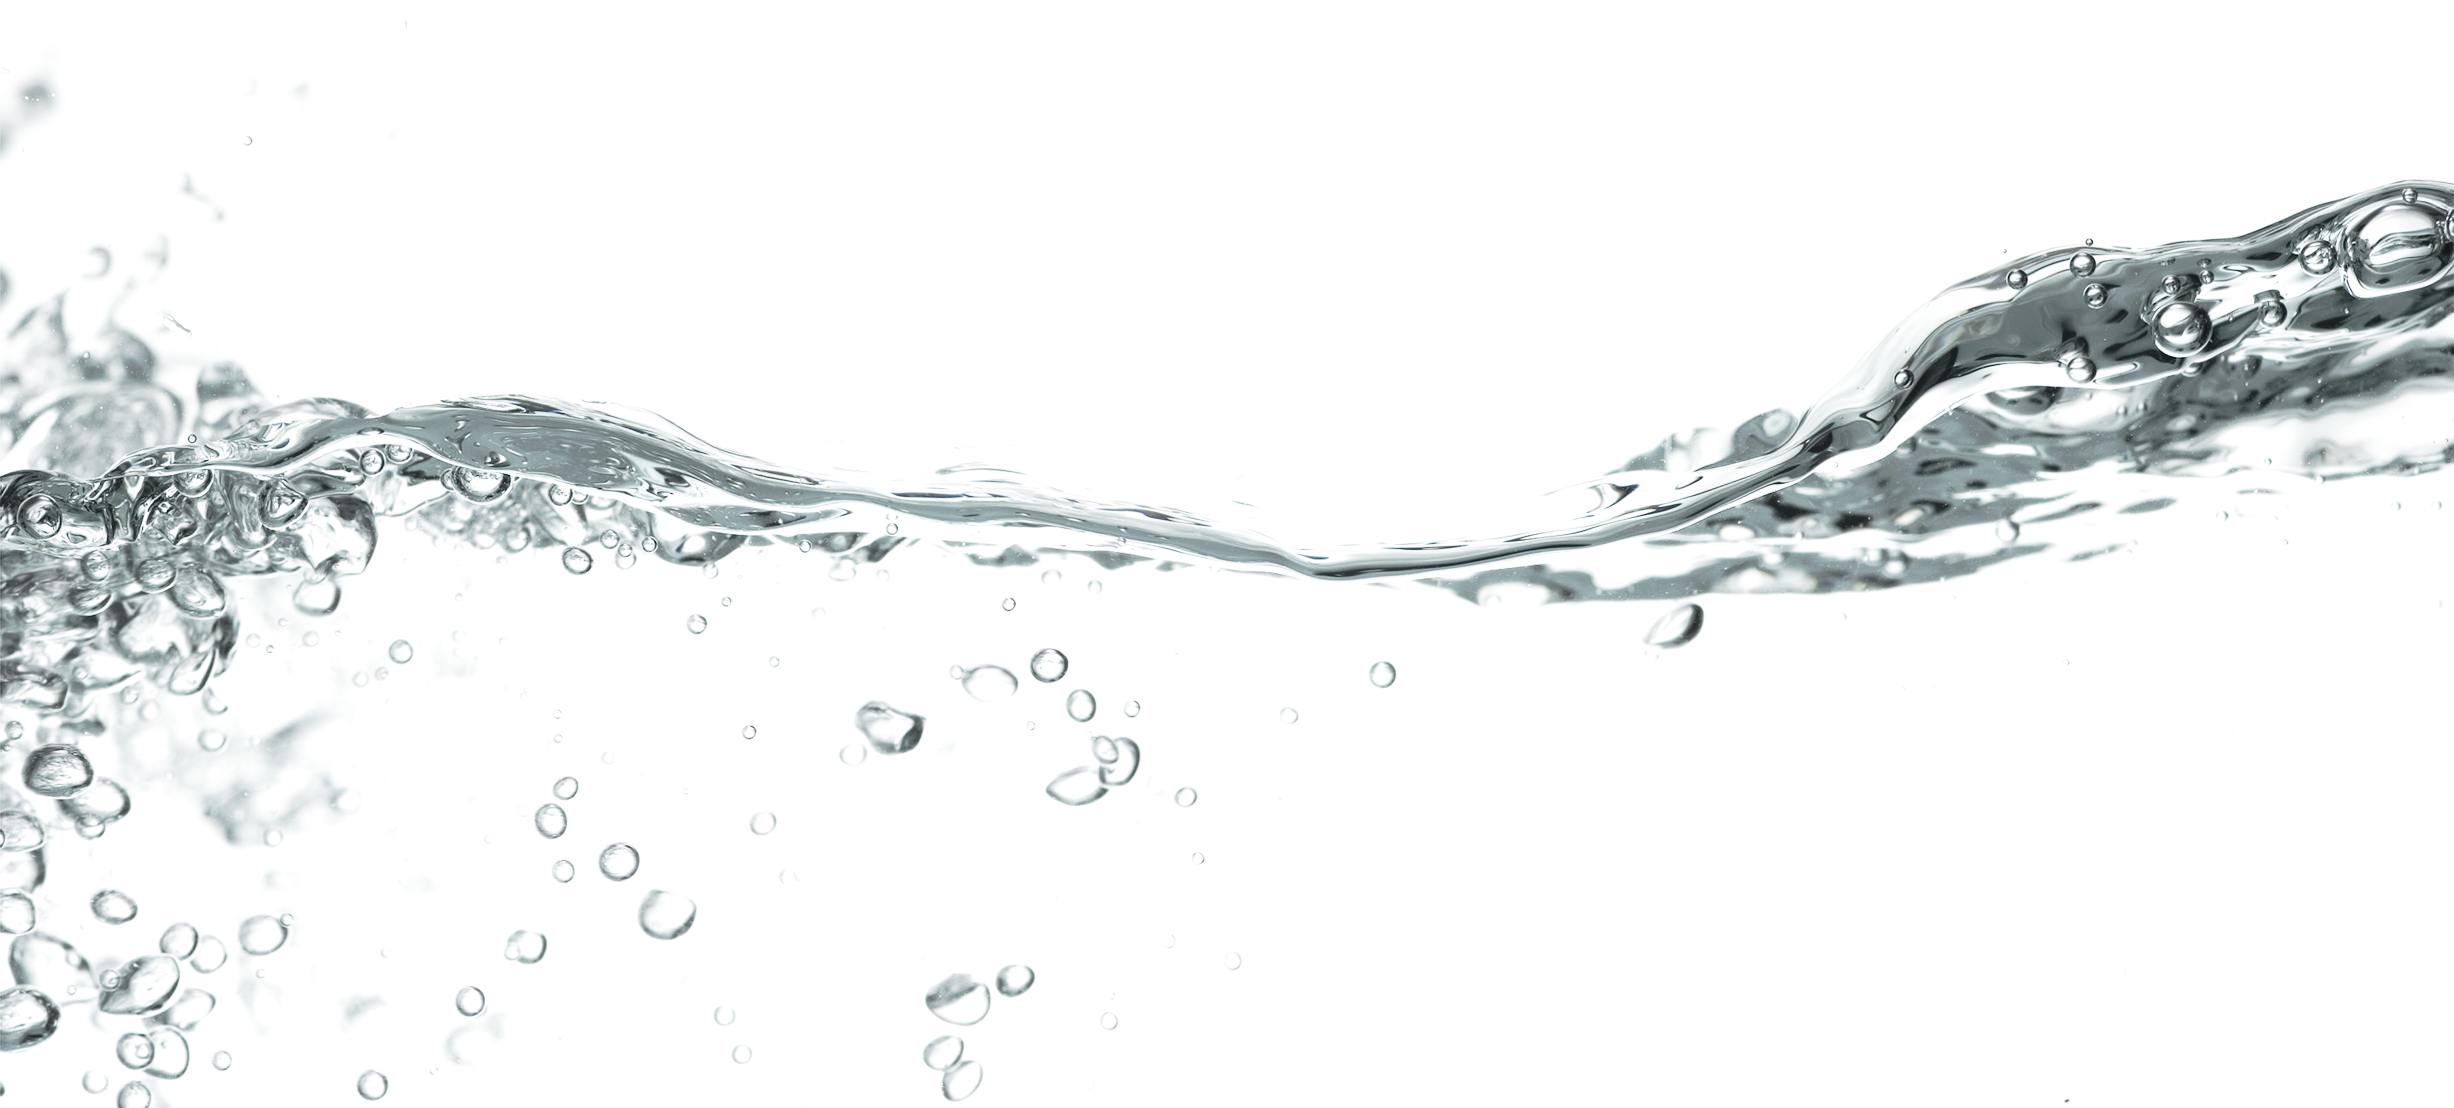
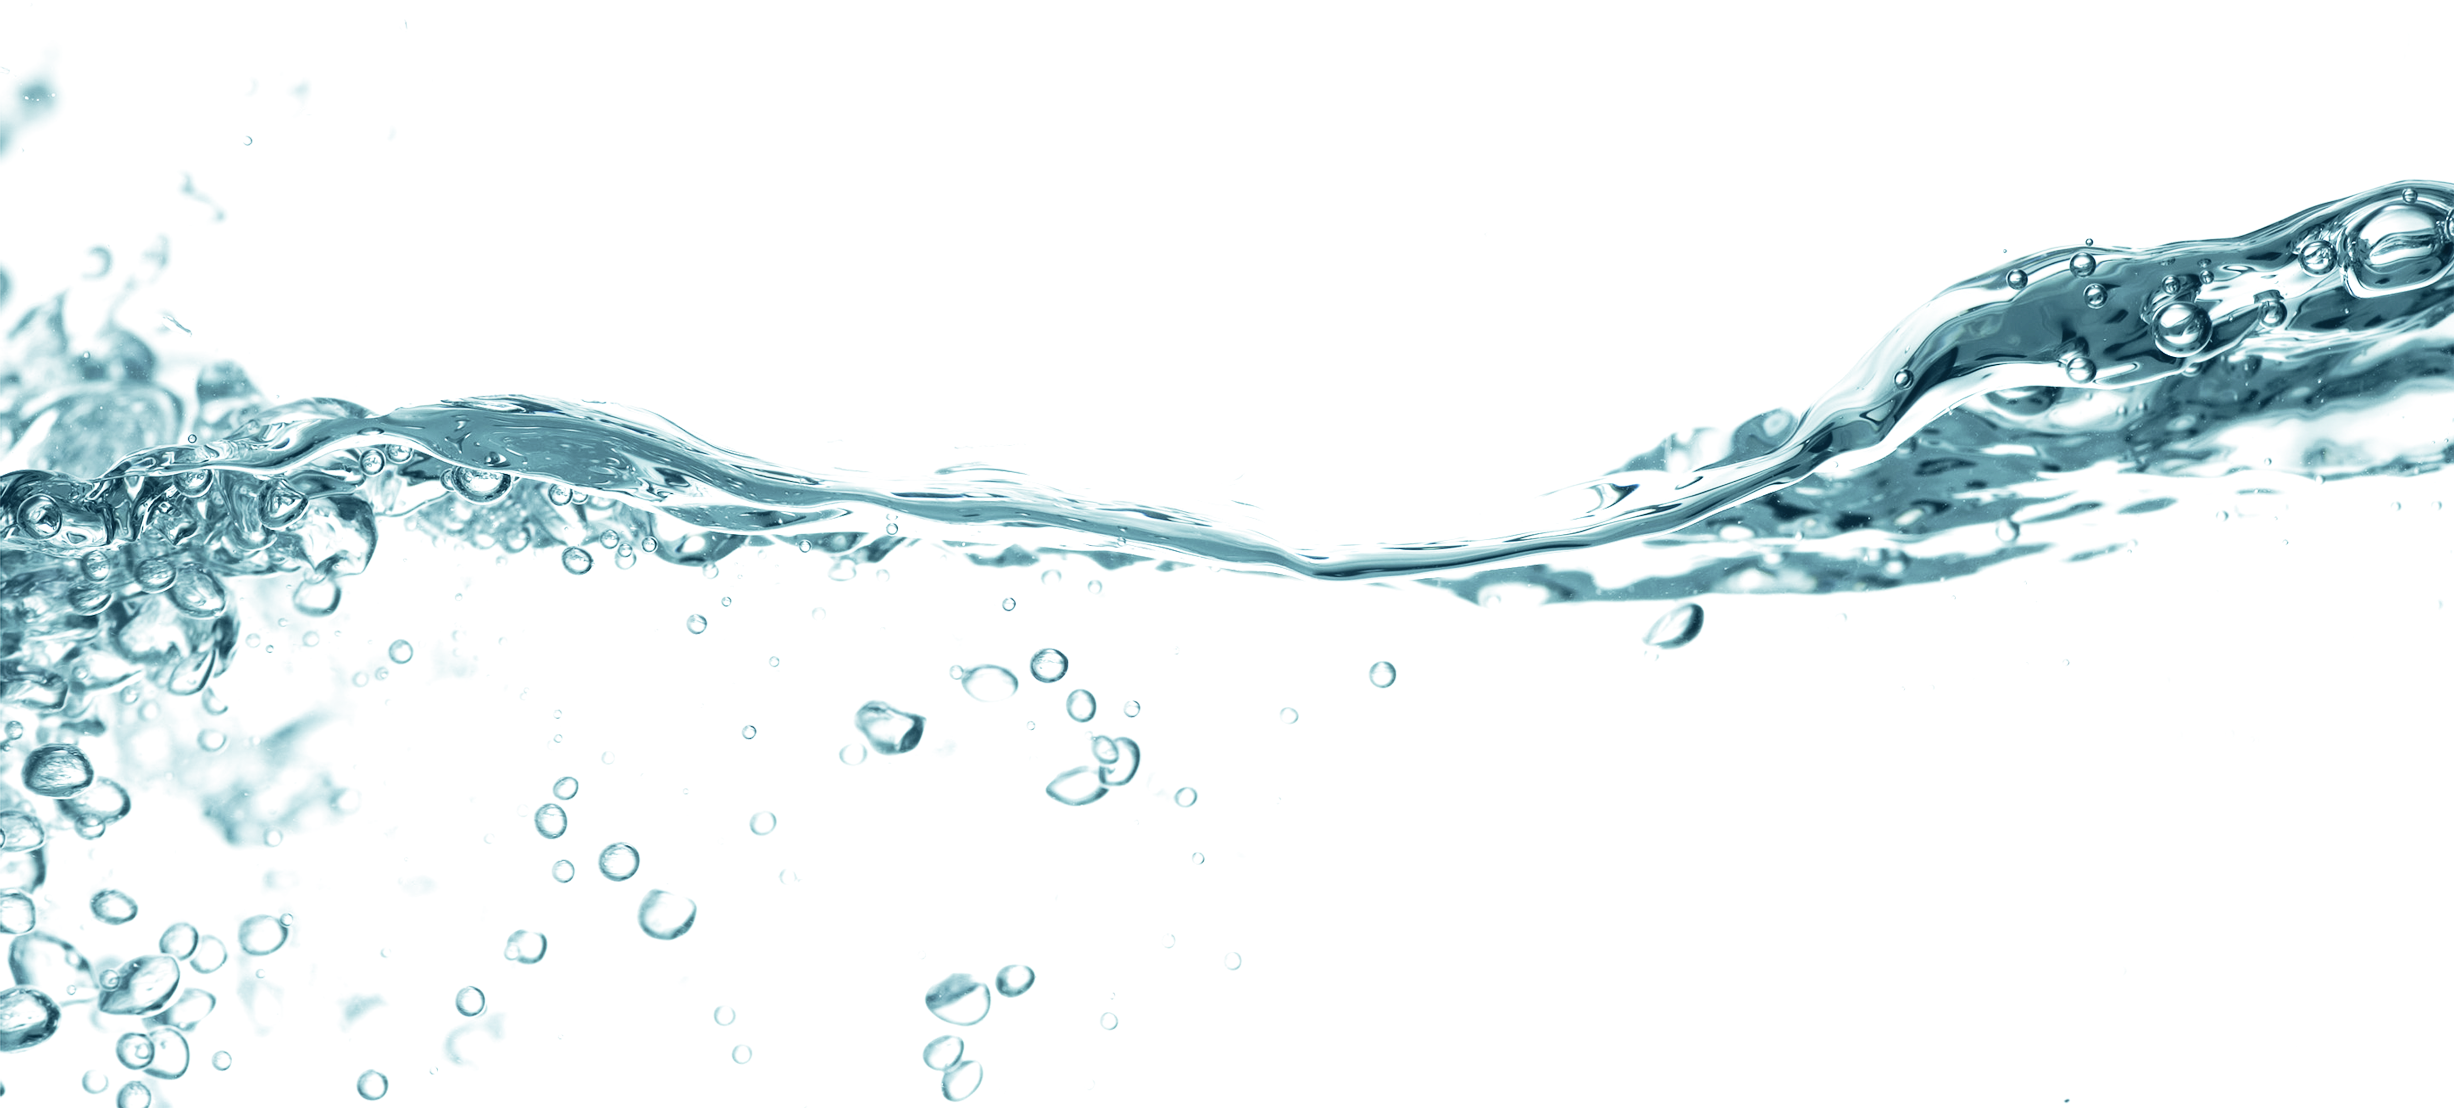
Слайдер

diff --git a/style/service.css b/style/service.css
@@ -23,9 +23,8 @@
 }
 
 .slide-item-desc{
-  background-color: rgba(101, 101, 101, 0.3);
-  box-shadow: 1px 0px 4px #7d7d7d;
-  height: 480px;
+  background-color: rgba(0, 0, 0, 0.3);
+  height: 500px;
   padding: 30px;
 }
 
@@ -46,7 +45,12 @@
   opacity: .7;
 }
 
-.carousel-control-next-icon, .carousel-control-prev-icon {
+.carousel-control-next-icon {
+  background-image: url(../img/serviceView/double-right.png);
   padding: 20px;
-  background-color: rgba(169, 169, 169, 0.5);
+}
+
+.carousel-control-prev-icon {
+  background-image: url(../img/serviceView/double-left.png);
+  padding: 20px;
 }

diff --git a/style/headerView.css b/style/headerView.css
@@ -74,7 +74,8 @@
 }
 
 .header-cart .cart:hover{
-  background-color: #dcdcdc;
+  background-color: #5bb7c2;
+  color: #f4f4f4;
 }
 
 .header-cart .cart div{
@@ -101,7 +102,7 @@
 }
 
 .header-target-form .header-target-form-desc, .header-target-form .header-target-form-title{
-  color: #176f79;
+  color: #444;
   display: table;
   padding: 5px;
   border-radius: 4px;

diff --git a/style/style-default.css b/style/style-default.css
@@ -75,7 +75,7 @@ input{
 }
 
 .form-text-submit input[type="submit"]{
-  background-color: #3f7f8e;
+  background-color: #5bb7c2;
   color: #fff;
   width: 100%;
   text-transform: uppercase;
@@ -83,5 +83,5 @@ input{
 }
 
 .form-text-submit input[type="submit"]:hover{
-  background-color: #6aabb3;
+  background-color: #289dab;
 }

diff --git a/style/shippingPayment.css b/style/shippingPayment.css
@@ -31,7 +31,7 @@
 
 .advantages-img {
   width: 75px;
-  color: #8ACCD4;
+  color: #289dab;
   margin-bottom: 15px;
 }
 

diff --git a/Service/sliderView.php b/Service/sliderView.php
@@ -3,7 +3,7 @@
     <div class="carousel-inner">
        <div class="carousel-item active">
         <div class="slide-item">
-          <img class="img-fluid" src="../img/serviceView/3-min-3.jpg" alt="First slide">
+          <img class="img-fluid" src="../img/serviceView/1.png" alt="First slide">
           <div class="container">
             <div class="row justify-content-end">
               <div class="col-md-5 slide-item-desc">
@@ -15,10 +15,9 @@
           </div>
         </div>
       </div>
-
        <div class="carousel-item">  
         <div class="slide-item">
-          <img class="img-fluid" src="../img/headerView/30-aqua-top.jpg" alt="First slide">
+          <img class="img-fluid" src="../img/serviceView/2.png" alt="First slide">
           <div class="container">
             <div class="row justify-content-start">
               <div class="col-md-5 slide-item-desc">
@@ -30,7 +29,25 @@
           </div>
         </div>
       </div>
+
+       <div class="carousel-item">  
+        <div class="slide-item">
+          <img class="img-fluid" src="../img/serviceView/3.png" alt="First slide">
+          <div class="container">
+            <div class="row justify-content-end">
+              <div class="col-md-5 slide-item-desc">
+                <h2>Обустройство скважины с кессоном</h2>
+
+                <p>Когда выполняется обустройство скважины на воду, сама обсадная труба не выводится на нулевой уровень. Ее конец оставляют на глубине около полутора – двух метров.</p>
+
+                <p>Во избежание замерзания водопроводная труба выводится в кессон, в котором располагается либо все технологическое оборудование, либо его часть. Это фильтры, гидроаккумулятор, насос, и т.д.</p>
+              </div>
+            </div>
+          </div>
+        </div>
+      </div>
     </div>
+
 
     <a class="carousel-control-prev" href="#carousel" data-slide="prev">
       <span class="carousel-control-prev-icon"></span>

diff --git a/Header/MainMenu/mainMenu.php b/Header/MainMenu/mainMenu.php
@@ -6,14 +6,14 @@
       'id'=>'catalog'
     ],
     [
-      'link'=>'О компании',
-      'href'=>'index.php?id_page=about_company',
-      'id'=>'about_company'
-    ],
-    [
       'link'=>'Наши услуги',
       'href'=>'index.php?id_page=service',
       'id'=>'service'
+    ],
+    [
+      'link'=>'О компании',
+      'href'=>'index.php?id_page=about_company',
+      'id'=>'about_company'
     ],
     [
       'link'=>'Доставка и оплата',
